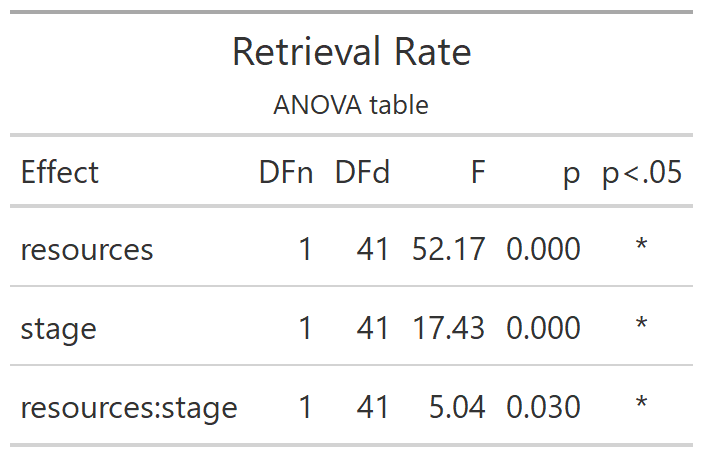
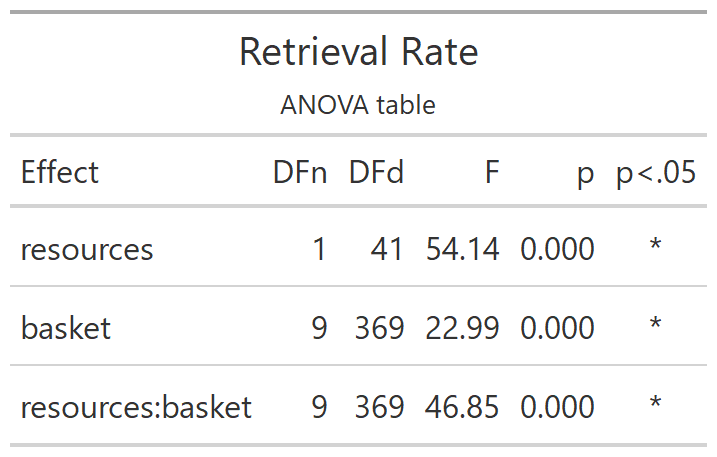
e1 retrieval rate as count

diff --git a/docs/retrieval-rate.html b/docs/retrieval-rate.html
@@ -76,7 +76,7 @@
 </h1>
 <p>Experiment 1</p>
 <div class="inline-figure"><img src="e1_tables/e1_retrievalrate_ANOVA.png" width="50%"></div>
-<div class="inline-figure"><img src="e1_plots/e1_retrievalrate_PLOT2.png" width="75%"></div>
+<div class="inline-figure"><img src="e1_plots/e1_retrievalrate_PLOT10.png" width="75%"></div>
 
 </div>
   <div class="chapter-nav">
@@ -101,7 +101,7 @@
 <footer class="bg-primary text-light mt-5"><div class="container"><div class="row">
 
   <div class="col-12 col-md-6 mt-3">
-    <p>"<strong>Foraging: introducing our gaze-contingent eye-tracking paradigm for studying foraging</strong>" was written by Matthew Green. It was last built on Monday 23 May 2022 at 18:50:47.</p>
+    <p>"<strong>Foraging: introducing our gaze-contingent eye-tracking paradigm for studying foraging</strong>" was written by Matthew Green. It was last built on Tuesday 24 May 2022 at 15:22:45.</p>
   </div>
 
   <div class="col-12 col-md-6 mt-3">

diff --git a/docs/404.html b/docs/404.html
@@ -89,7 +89,7 @@ the table of contents to find the page you are looking for.</p>
 <footer class="bg-primary text-light mt-5"><div class="container"><div class="row">
 
   <div class="col-12 col-md-6 mt-3">
-    <p>"<strong>Foraging: introducing our gaze-contingent eye-tracking paradigm for studying foraging</strong>" was written by Matthew Green. It was last built on Monday 23 May 2022 at 18:50:47.</p>
+    <p>"<strong>Foraging: introducing our gaze-contingent eye-tracking paradigm for studying foraging</strong>" was written by Matthew Green. It was last built on Tuesday 24 May 2022 at 15:22:45.</p>
   </div>
 
   <div class="col-12 col-md-6 mt-3">

diff --git a/docs/index.html b/docs/index.html
@@ -108,7 +108,7 @@ set in the _output.yml file.&lt;/p&gt;">
 <footer class="bg-primary text-light mt-5"><div class="container"><div class="row">
 
   <div class="col-12 col-md-6 mt-3">
-    <p>"<strong>Foraging: introducing our gaze-contingent eye-tracking paradigm for studying foraging</strong>" was written by Matthew Green. It was last built on Monday 23 May 2022 at 18:50:47.</p>
+    <p>"<strong>Foraging: introducing our gaze-contingent eye-tracking paradigm for studying foraging</strong>" was written by Matthew Green. It was last built on Tuesday 24 May 2022 at 15:22:45.</p>
   </div>
 
   <div class="col-12 col-md-6 mt-3">

diff --git a/docs/references.html b/docs/references.html
@@ -106,7 +106,7 @@ set in the _output.yml file.&lt;/p&gt;">
 <footer class="bg-primary text-light mt-5"><div class="container"><div class="row">
 
   <div class="col-12 col-md-6 mt-3">
-    <p>"<strong>Foraging: introducing our gaze-contingent eye-tracking paradigm for studying foraging</strong>" was written by Matthew Green. It was last built on Monday 23 May 2022 at 18:50:47.</p>
+    <p>"<strong>Foraging: introducing our gaze-contingent eye-tracking paradigm for studying foraging</strong>" was written by Matthew Green. It was last built on Tuesday 24 May 2022 at 15:22:45.</p>
   </div>
 
   <div class="col-12 col-md-6 mt-3">

diff --git a/docs/inter-tree-distance-1.html b/docs/inter-tree-distance-1.html
@@ -101,7 +101,7 @@
 <footer class="bg-primary text-light mt-5"><div class="container"><div class="row">
 
   <div class="col-12 col-md-6 mt-3">
-    <p>"<strong>Foraging: introducing our gaze-contingent eye-tracking paradigm for studying foraging</strong>" was written by Matthew Green. It was last built on Monday 23 May 2022 at 18:50:47.</p>
+    <p>"<strong>Foraging: introducing our gaze-contingent eye-tracking paradigm for studying foraging</strong>" was written by Matthew Green. It was last built on Tuesday 24 May 2022 at 15:22:45.</p>
   </div>
 
   <div class="col-12 col-md-6 mt-3">

diff --git a/docs/inter-tree-distance.html b/docs/inter-tree-distance.html
@@ -104,7 +104,7 @@
 <footer class="bg-primary text-light mt-5"><div class="container"><div class="row">
 
   <div class="col-12 col-md-6 mt-3">
-    <p>"<strong>Foraging: introducing our gaze-contingent eye-tracking paradigm for studying foraging</strong>" was written by Matthew Green. It was last built on Monday 23 May 2022 at 18:50:47.</p>
+    <p>"<strong>Foraging: introducing our gaze-contingent eye-tracking paradigm for studying foraging</strong>" was written by Matthew Green. It was last built on Tuesday 24 May 2022 at 15:22:45.</p>
   </div>
 
   <div class="col-12 col-md-6 mt-3">

diff --git a/docs/introduction-1.html b/docs/introduction-1.html
@@ -107,7 +107,7 @@
 <footer class="bg-primary text-light mt-5"><div class="container"><div class="row">
 
   <div class="col-12 col-md-6 mt-3">
-    <p>"<strong>Foraging: introducing our gaze-contingent eye-tracking paradigm for studying foraging</strong>" was written by Matthew Green. It was last built on Monday 23 May 2022 at 18:50:47.</p>
+    <p>"<strong>Foraging: introducing our gaze-contingent eye-tracking paradigm for studying foraging</strong>" was written by Matthew Green. It was last built on Tuesday 24 May 2022 at 15:22:45.</p>
   </div>
 
   <div class="col-12 col-md-6 mt-3">

diff --git a/docs/introduction.html b/docs/introduction.html
@@ -104,7 +104,7 @@
 <footer class="bg-primary text-light mt-5"><div class="container"><div class="row">
 
   <div class="col-12 col-md-6 mt-3">
-    <p>"<strong>Foraging: introducing our gaze-contingent eye-tracking paradigm for studying foraging</strong>" was written by Matthew Green. It was last built on Monday 23 May 2022 at 18:50:47.</p>
+    <p>"<strong>Foraging: introducing our gaze-contingent eye-tracking paradigm for studying foraging</strong>" was written by Matthew Green. It was last built on Tuesday 24 May 2022 at 15:22:45.</p>
   </div>
 
   <div class="col-12 col-md-6 mt-3">

diff --git a/docs/number-of-revisits-1.html b/docs/number-of-revisits-1.html
@@ -101,7 +101,7 @@
 <footer class="bg-primary text-light mt-5"><div class="container"><div class="row">
 
   <div class="col-12 col-md-6 mt-3">
-    <p>"<strong>Foraging: introducing our gaze-contingent eye-tracking paradigm for studying foraging</strong>" was written by Matthew Green. It was last built on Monday 23 May 2022 at 18:50:47.</p>
+    <p>"<strong>Foraging: introducing our gaze-contingent eye-tracking paradigm for studying foraging</strong>" was written by Matthew Green. It was last built on Tuesday 24 May 2022 at 15:22:45.</p>
   </div>
 
   <div class="col-12 col-md-6 mt-3">

diff --git a/docs/number-of-revisits.html b/docs/number-of-revisits.html
@@ -101,7 +101,7 @@
 <footer class="bg-primary text-light mt-5"><div class="container"><div class="row">
 
   <div class="col-12 col-md-6 mt-3">
-    <p>"<strong>Foraging: introducing our gaze-contingent eye-tracking paradigm for studying foraging</strong>" was written by Matthew Green. It was last built on Monday 23 May 2022 at 18:50:47.</p>
+    <p>"<strong>Foraging: introducing our gaze-contingent eye-tracking paradigm for studying foraging</strong>" was written by Matthew Green. It was last built on Tuesday 24 May 2022 at 15:22:45.</p>
   </div>
 
   <div class="col-12 col-md-6 mt-3">

diff --git a/docs/number-of-trees-1.html b/docs/number-of-trees-1.html
@@ -101,7 +101,7 @@
 <footer class="bg-primary text-light mt-5"><div class="container"><div class="row">
 
   <div class="col-12 col-md-6 mt-3">
-    <p>"<strong>Foraging: introducing our gaze-contingent eye-tracking paradigm for studying foraging</strong>" was written by Matthew Green. It was last built on Monday 23 May 2022 at 18:50:47.</p>
+    <p>"<strong>Foraging: introducing our gaze-contingent eye-tracking paradigm for studying foraging</strong>" was written by Matthew Green. It was last built on Tuesday 24 May 2022 at 15:22:45.</p>
   </div>
 
   <div class="col-12 col-md-6 mt-3">

diff --git a/docs/number-of-trees.html b/docs/number-of-trees.html
@@ -101,7 +101,7 @@
 <footer class="bg-primary text-light mt-5"><div class="container"><div class="row">
 
   <div class="col-12 col-md-6 mt-3">
-    <p>"<strong>Foraging: introducing our gaze-contingent eye-tracking paradigm for studying foraging</strong>" was written by Matthew Green. It was last built on Monday 23 May 2022 at 18:50:47.</p>
+    <p>"<strong>Foraging: introducing our gaze-contingent eye-tracking paradigm for studying foraging</strong>" was written by Matthew Green. It was last built on Tuesday 24 May 2022 at 15:22:45.</p>
   </div>
 
   <div class="col-12 col-md-6 mt-3">
